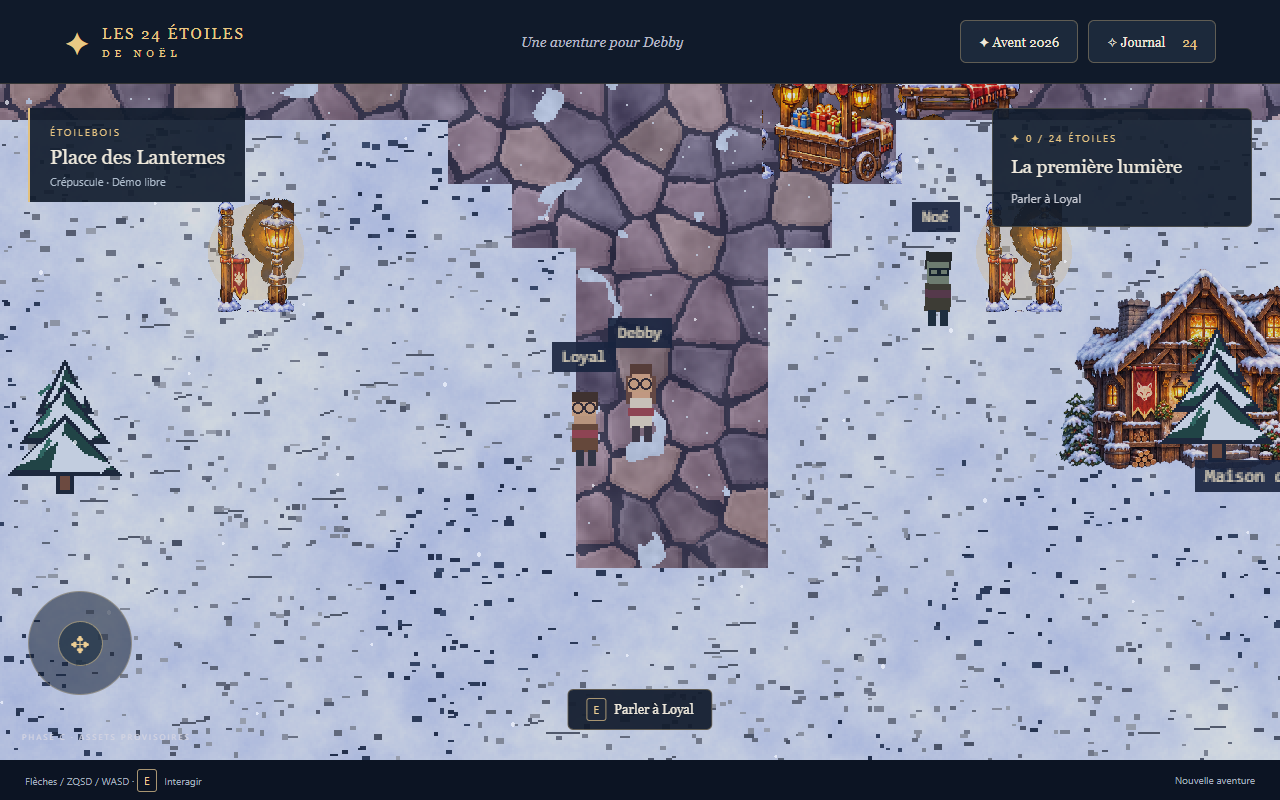
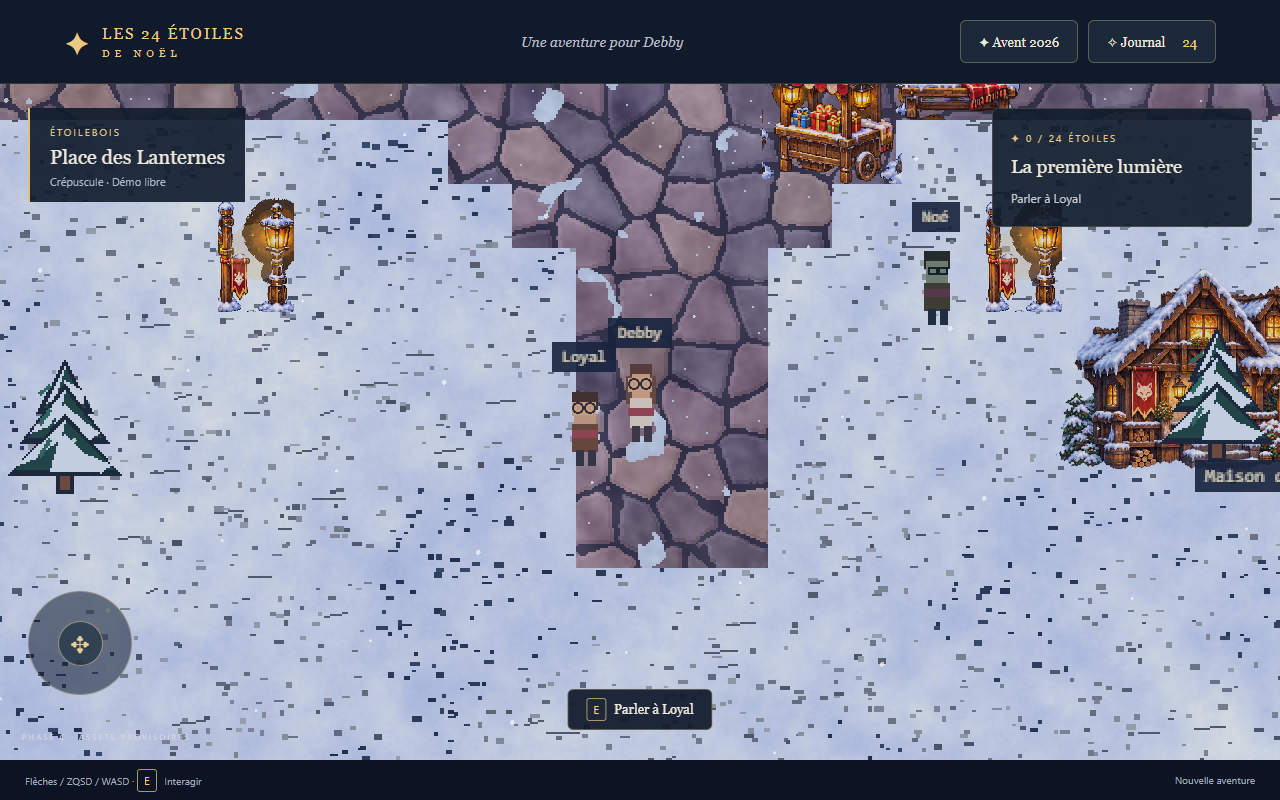
feat(art-d3): soften winter lights and add bounded chimney smoke

Changed region(s): [[0.1562, 0.25, 0.25, 0.375], [0.7188, 0.2812, 0.8438, 0.375]]

diff --git a/src/game/Game.ts b/src/game/Game.ts
@@ -76,6 +76,7 @@ export class Village extends Phaser.Scene {
   shade!: Phaser.GameObjects.Rectangle;
   snow: Phaser.GameObjects.Arc[] = [];
   lamps: Phaser.GameObjects.Arc[] = [];
+  smoke: { puff: Phaser.GameObjects.Arc; x: number; y: number; phase: number }[] = [];
   decorations: Phaser.GameObjects.Arc[] = [];
   frame = 0;
   lastEEvent = -1;
@@ -159,6 +160,7 @@ export class Village extends Phaser.Scene {
     this.star = undefined;
     this.npcs = [];
     this.lamps = [];
+    this.smoke = [];
     this.decorations = [];
     this.rects = [];
     this.trail = [];
@@ -186,7 +188,7 @@ export class Village extends Phaser.Scene {
         if (p.sprite === "lantern")
           this.lamps.push(
             this.add
-              .circle(p.tileX * 16, p.tileY * 16 - 30, 24, 0xffce72, 1)
+              .circle(p.tileX * 16, p.tileY * 16 - 30, 14, 0xffce72, 1)
               .setDepth(p.tileY * 16 + 1),
           );
       });
@@ -199,6 +201,10 @@ export class Village extends Phaser.Scene {
         const facade = this.add.image(b.entrance.x * 16, y + bh, "art-" + buildingArt[b.id])
           .setOrigin(0.5, 1).setDepth(y + bh - 12);
         facade.setScale((bw + 32) / facade.width);
+        for (let i=0;i<3;i++) {
+          const sx=b.entrance.x*16-bw*.3, sy=y+bh-facade.displayHeight*.8;
+          this.smoke.push({puff:this.add.circle(sx,sy,3,0xd6d9e4,.1).setDepth(y+bh+1),x:sx,y:sy,phase:i/3});
+        }
         this.label(x + bw / 2, y + bh + 10, b.name);
 
       });
@@ -868,7 +874,14 @@ export class Village extends Phaser.Scene {
           Math.sin(_time / 600 + i) * 0.035,
       ),
     );
+    const reduced = window.matchMedia("(prefers-reduced-motion: reduce)").matches;
+    for (const {puff,x,y,phase} of this.smoke) {
+      const life=(_time/4200+phase)%1;
+      puff.setPosition(x+Math.sin(life*4)*5,y-life*24)
+        .setScale(1+life).setAlpha(reduced?0:Math.sin(life*Math.PI)*.15);
+    }
     this.snow.forEach((flake, i) => {
+      flake.setVisible(!reduced);
       const span = cam.width / 2,
         height = cam.height / 2;
       flake.setPosition(

diff --git a/docs/graphismes/BILAN-D1-D9.md b/docs/graphismes/BILAN-D1-D9.md
@@ -20,7 +20,7 @@ Vérification D1 : build TypeScript/Vite réussi, test navigateur desktop réuss
 Lanternes, bancs, panneaux, cadeaux V11 et végétation du pack intégrés aux positions existantes, avec bonhomme de neige, jardinière, clôture et brasero aux bords de la place. Les décorations ajoutées ne bloquent aucun chemin et ne créent aucune interaction. Les découpes V11 peuvent conserver halos et fragments voisins, conformément à leur README.
 
 ## D3 — Ambiance
-À réaliser.
+Cycle existant aurore/jour/crépuscule/nuit conservé, neige légère (36 particules maximum), halo des lanternes réduit et fumée de cheminée (12 formes réutilisées, aucun objet créé par frame). Neige et fumée respectent la réduction des animations du système. Aucun halo ajouté aux personnages, notamment Flocon. Vérification TypeScript et navigateur PC/mobile.
 
 ## D4 — Personnages
 À réaliser.
